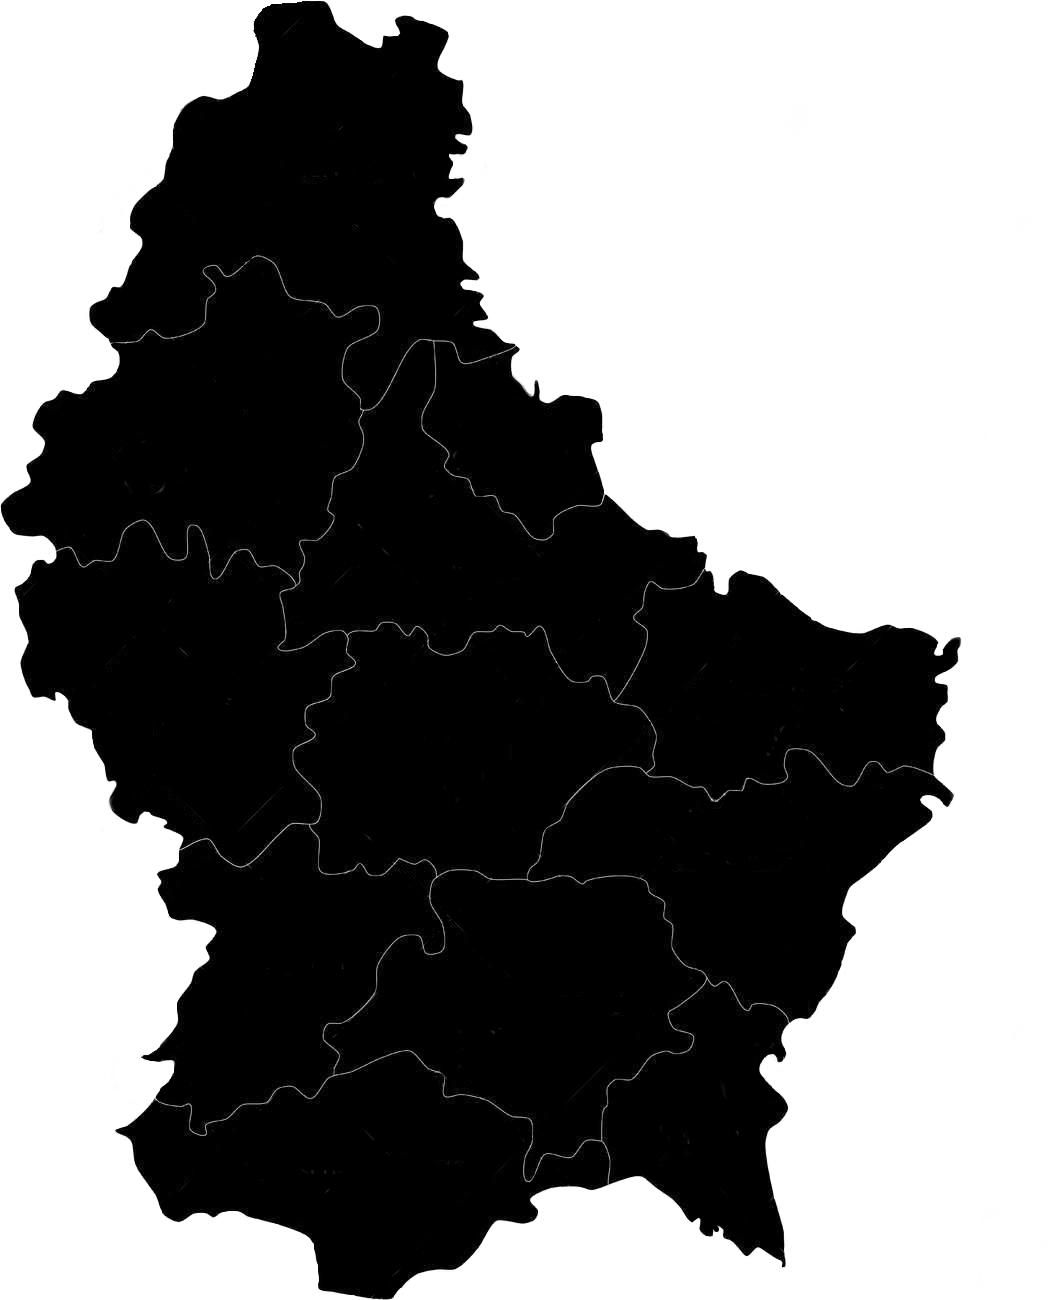
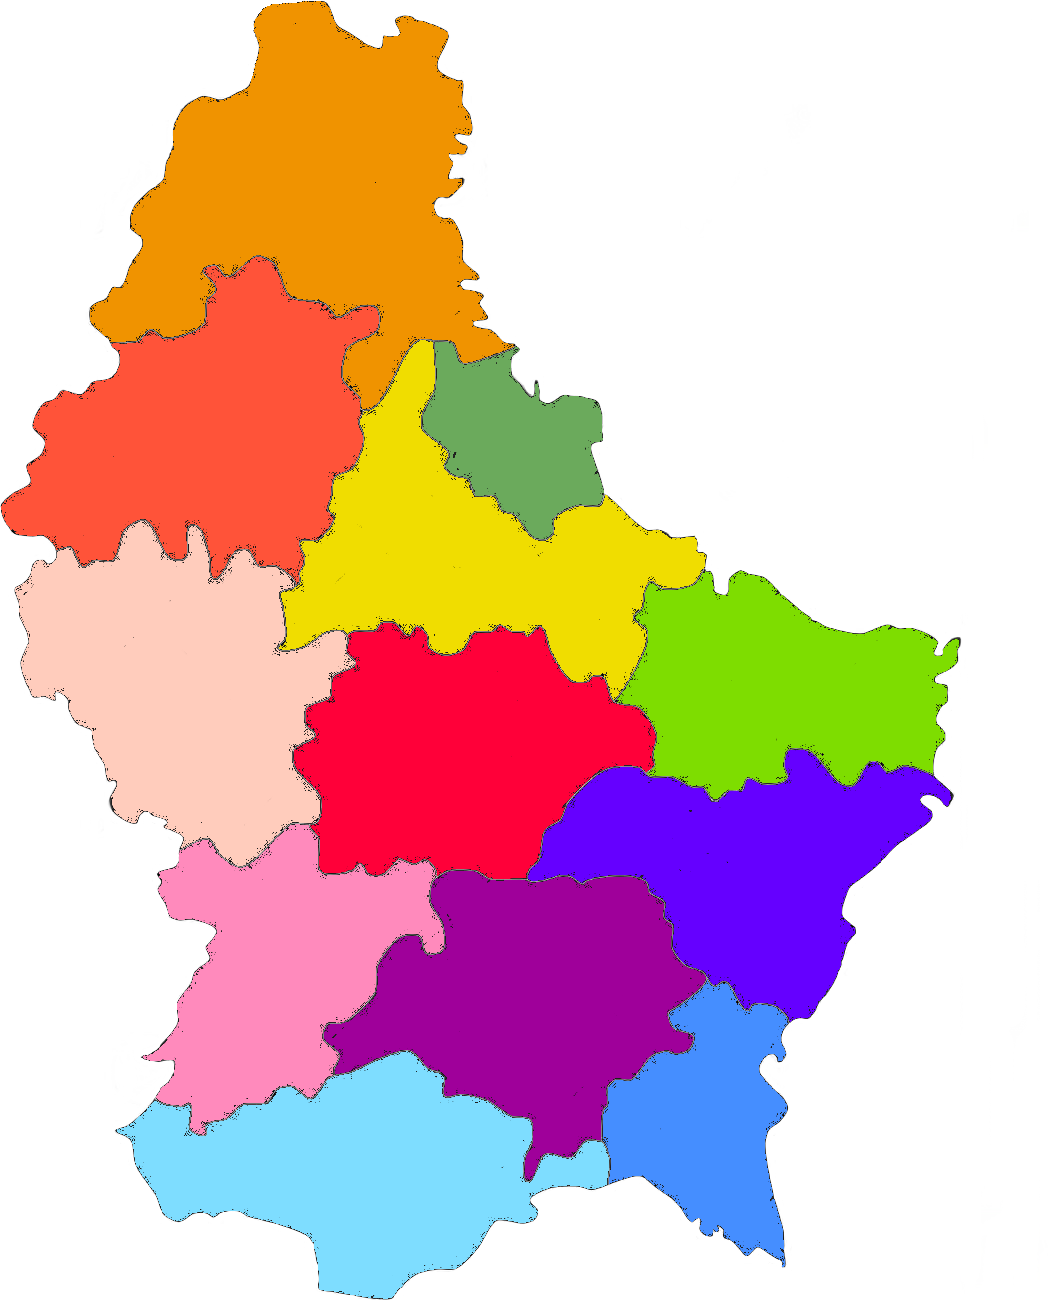
I added the colored map. I'm going to add links in the next commit.

diff --git a/Daria.html b/Daria.html
@@ -55,17 +55,6 @@
     		//opening the main page
     	}
     </script>
-    <img style="position:absolute; top:100px; left:170px; width:30%; height:30%:" SRC="Map images/clervaux.png">
-    <img style="position:absolute; top:244px; left:123px; width:26%; height:26%:" SRC="Map images/wiltz.png">
-    <img style="position:absolute; top:294px; left:278px; width:29%; height:29%:" SRC="Map images/diekirch.png">
-    <img style="position:absolute; top:295px; left:360px; width:12%; height:12%:" SRC="Map images/vianden.png">
-    <img style="position:absolute; top:391px; left:128px; width:24%; height:24%:" SRC="Map images/redange.png">
-    <img style="position:absolute; top:450px; left:288px; width:24.5%; height:24.5%:" SRC="Map images/mersh.png">
-    <img style="position:absolute; top:421px; left:465px; width:24%; height:24%:" SRC="Map images/echternach.png">
-    <img style="position:absolute; top:520px; left:416.5px; width:29%; height:29%:" SRC="Map images/grevenmacher.png">
-    <img style="position:absolute; top:560px; left:201.5px; width:21%; height:21%:" SRC="Map images/capellen.png">
-    <img style="position:absolute; top:589px; left:302px; width:26.5%; height:26.5%:" SRC="Map images/luxembourg.png">
-    <img style="position:absolute; top:651px; left:460px; width:12.5%; height:12.5%:" SRC="Map images/remich.png">
-    <img style="position:absolute; top:693px; left:189px; width:33.5%; height:33.5%:" SRC="Map images/esch-sur-alzette.png">
+    <img src="Map images/map.png">
 </body>
 </html3

diff --git a/index.html b/index.html
@@ -115,18 +115,6 @@
         }
     </script>
    <div>
-    <img style="position:absolute; top:550px; left:170px; width:50%; height:50%:" SRC="Map images/clervaux.png">
-    <img style="position:absolute; top:650px; left:122px; width:50%; height:50%:" SRC="Map images/wiltz.png">
-    <img style="position:absolute; top:696px; left:268px; width:50%; height:50%:" SRC="Map images/diekirch.png">
-    <img style="position:absolute; top:656px; left:275px; width:50%; height:50%:" SRC="Map images/vianden.png">
-    <img style="position:absolute; top:786px; left:110px; width:50%; height:50%:" SRC="Map images/redange.png">
-    <img style="position:absolute; top:817px; left:259px; width:50%; height:50%:" SRC="Map images/mersh.png">
-    <img style="position:absolute; top:784px; left:420px; width:50%; height:50%:" SRC="Map images/echternach.png">
-    <img style="position:absolute; top:887px; left:395px; width:50%; height:50%:" SRC="Map images/grevenmacher.png">
-    <img style="position:absolute; top:935px; left:165px; width:50%; height:50%:" SRC="Map images/capellen.png">
-    <img style="position:absolute; top:959px; left:279px; width:50%; height:50%:" SRC="Map images/luxembourg.png">
-    <img style="position:absolute; top:1010px; left:373px; width:50%; height:50%:" SRC="Map images/remich.png">
-    <img style="position:absolute; top:1037px; left:200px; width:50%; height:50%:" SRC="Map images/esch-sur-alzette.png">
-   </div>
+    <img SRC="Map images/map.png">
 </body>
 </html>
